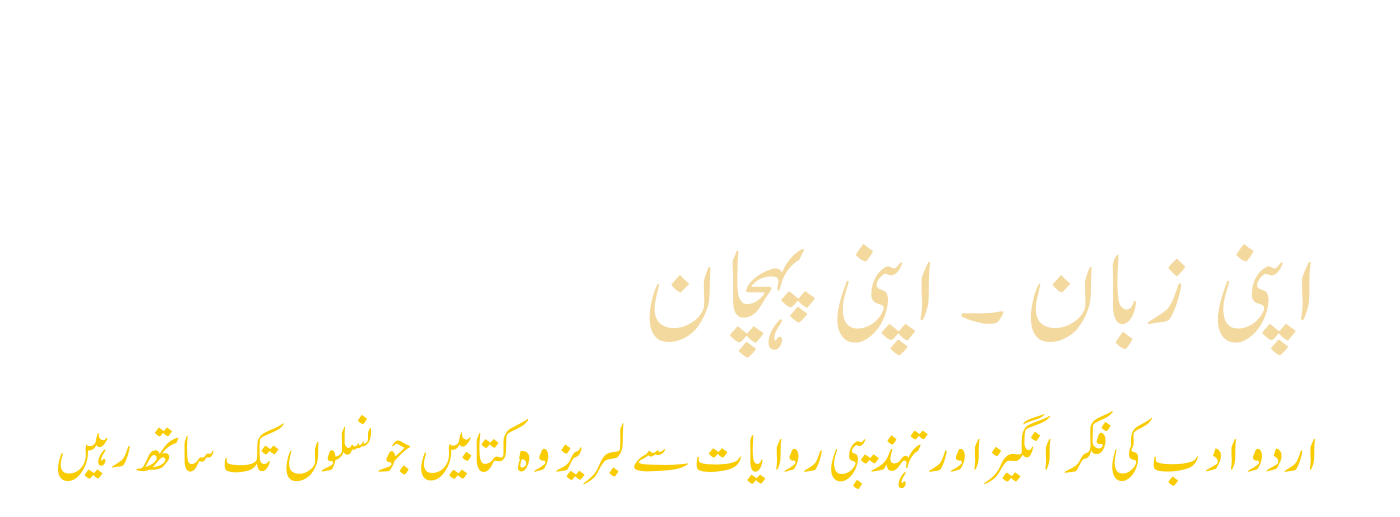
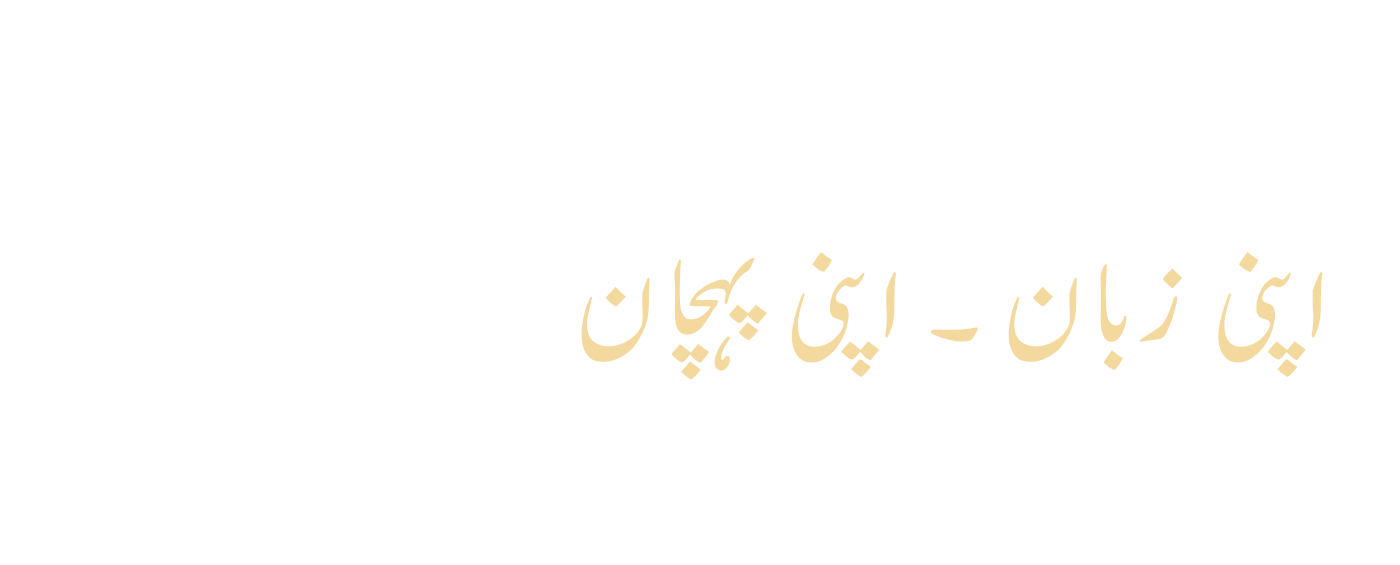
Add final multilingual hero text artwork

diff --git a/app/page.tsx b/app/page.tsx
@@ -60,10 +60,10 @@ export default function Storefront(){
 function Home({books,open,add,go}:{books:Book[];open:(b:Book)=>void;add:(b:Book)=>void;go:(v:string)=>void}){const slides=[
  {language:"English",image:"/hero-english.png",textImage:null,title:"Some stories do not end.",accent:"They become part of us.",copy:"Discover English books shaped with care, curiosity, and a lasting respect for the reader.",cta:"Explore English books",target:"english",dir:"ltr"},
  {language:"Urdu",image:"/hero-urdu.png",textImage:"/hero-urdu-text.png",title:"ہر لفظ میں ایک دنیا آباد ہے",accent:"اپنی زبان، اپنی پہچان۔",copy:"اردو ادب، فکر اور تہذیب کی وہ کتابیں جو دل سے نکلیں اور نسلوں تک ساتھ رہیں۔",cta:"اردو کتابیں دیکھیں",target:"urdu",dir:"rtl"},
- {language:"Balochi",image:"/hero-balochi.png",textImage:null,title:"زبان، سرزمین کی زندہ یاد ہے",accent:"بلوچی آوازوں کو گھر لے جائیں۔",copy:"مکران کی زمین، لوگوں اور یادوں سے جڑی کتابیں، نئی نسل کے لیے محبت سے محفوظ۔",cta:"بلوچی کتابیں دیکھیں",target:"balochi",dir:"rtl"},
- {language:"Persian",image:"/hero-persian.png",textImage:null,title:"هر کتاب، باغی از معناست",accent:"بگذارید واژهها شما را پیدا کنند.",copy:"ادبیات و اندیشهٔ فارسی برای لحظههایی که دل به آرامش و ذهن به افقهای تازه نیاز دارد.",cta:"کتابهای فارسی",target:"persian",dir:"rtl"}
+ {language:"Balochi",image:"/hero-balochi.png",textImage:"/hero-balochi-text.png",title:"زبان، سرزمین کی زندہ یاد ہے",accent:"بلوچی آوازوں کو گھر لے جائیں۔",copy:"مکران کی زمین، لوگوں اور یادوں سے جڑی کتابیں، نئی نسل کے لیے محبت سے محفوظ۔",cta:"بلوچی کتابیں دیکھیں",target:"balochi",dir:"rtl"},
+ {language:"Persian",image:"/hero-persian.png",textImage:"/hero-persian-text.png",title:"هر کتاب، باغی از معناست",accent:"بگذارید واژهها شما را پیدا کنند.",copy:"ادبیات و اندیشهٔ فارسی برای لحظههایی که دل به آرامش و ذهن به افقهای تازه نیاز دارد.",cta:"کتابهای فارسی",target:"persian",dir:"rtl"}
  ];const [slide,setSlide]=useState(0),[paused,setPaused]=useState(false);useEffect(()=>{if(paused)return;const timer=setInterval(()=>setSlide(i=>(i+1)%slides.length),6500);return()=>clearInterval(timer)},[paused,slides.length]);const current=slides[slide];return <>
- <section className="hero hero-slider" aria-roledescription="carousel" aria-label="Books by language"><div className="hero-media" aria-hidden="true">{slides.map((s,i)=><img key={s.language} src={s.image} alt="" className={i===slide?"active":""}/>)}</div><div className="hero-shade"/><div className="hero-copy" dir={current.dir as "ltr"|"rtl"} key={current.language}><span className="hero-slogan">Books Across Languages &amp; Border</span><span className="hero-language">{current.language} collection</span>{current.textImage?<img className="hero-text-art" src={current.textImage} alt="اپنی زبان - اپنی پہچان۔ اردو ادب کی فکر انگیز و تہذیبی روایات سے ہم پرجوش کتابوں کا انتخاب کریں"/>:<><h1>{current.title}<br/><em>{current.accent}</em></h1><p>{current.copy}</p></>}<div className="hero-actions"><button className="primary" onClick={()=>go(current.target)}>{current.cta} <ArrowRight/></button><button className="hero-sample" onClick={()=>go("free-books")}><BookOpen/> Explore free samples</button></div><div className="trust"><span><b>32+</b> curated titles</span><span><b>4</b> languages</span><span><b>Instant</b> access</span></div></div><div className="hero-controls"><div>{slides.map((s,i)=><button key={s.language} className={i===slide?"active":""} onClick={()=>setSlide(i)} aria-label={`Show ${s.language} hero`} aria-current={i===slide?"true":undefined}><span/></button>)}</div><button className="hero-pause" onClick={()=>setPaused(p=>!p)} aria-label={paused?"Play hero slides":"Pause hero slides"}>{paused?<Play/>:<Pause/>}</button></div></section>
+ <section className="hero hero-slider" aria-roledescription="carousel" aria-label="Books by language"><div className="hero-media" aria-hidden="true">{slides.map((s,i)=><img key={s.language} src={s.image} alt="" className={i===slide?"active":""}/>)}</div><div className="hero-shade"/><div className="hero-copy" dir={current.dir as "ltr"|"rtl"} key={current.language}><span className="hero-slogan">Books Across Languages &amp; Border</span><span className="hero-language">{current.language} collection</span>{current.textImage?<img className="hero-text-art" src={current.textImage} alt={`${current.title} ${current.accent} ${current.copy}`}/>:<><h1>{current.title}<br/><em>{current.accent}</em></h1><p>{current.copy}</p></>}<div className="hero-actions"><button className="primary" onClick={()=>go(current.target)}>{current.cta} <ArrowRight/></button><button className="hero-sample" onClick={()=>go("free-books")}><BookOpen/> Explore free samples</button></div><div className="trust"><span><b>32+</b> curated titles</span><span><b>4</b> languages</span><span><b>Instant</b> access</span></div></div><div className="hero-controls"><div>{slides.map((s,i)=><button key={s.language} className={i===slide?"active":""} onClick={()=>setSlide(i)} aria-label={`Show ${s.language} hero`} aria-current={i===slide?"true":undefined}><span/></button>)}</div><button className="hero-pause" onClick={()=>setPaused(p=>!p)} aria-label={paused?"Play hero slides":"Pause hero slides"}>{paused?<Play/>:<Pause/>}</button></div></section>
  <section className="language-strip"><div className="section-head"><div><span className="eyebrow">EXPLORE THE COLLECTION</span><h2>Shop by language</h2></div></div><div className="language-grid">{[["English Books","Discover contemporary and classic works","English"],["اردو کتابیں","علم، ادب اور تہذیب کا انتخاب","Urdu"],["بلوچی کتابیں","زبان و ثقافت کی آوازیں","Balochi"],["کتابهای فارسی","ادبیات، تاریخ و اندیشه","Persian"]].map((l,i)=><button key={l[2]} onClick={()=>go(l[2].toLowerCase())} className={`lang-card l${i}`} dir={i?"rtl":"ltr"}><span>{String(i+1).padStart(2,"0")}</span><div><h3>{l[0]}</h3><p>{l[1]}</p></div><ArrowRight/></button>)}</div></section>
  <Shelf title="Editor's selection" eyebrow="FEATURED BOOKS" books={books.slice(0,5)} open={open} add={add} go={go}/>
  <section className="quote-band"><blockquote>“A language carries more than words. It carries the memory of a people.”</blockquote><p>Our publishing programme brings essential scholarship and beautiful storytelling to readers everywhere.</p></section>